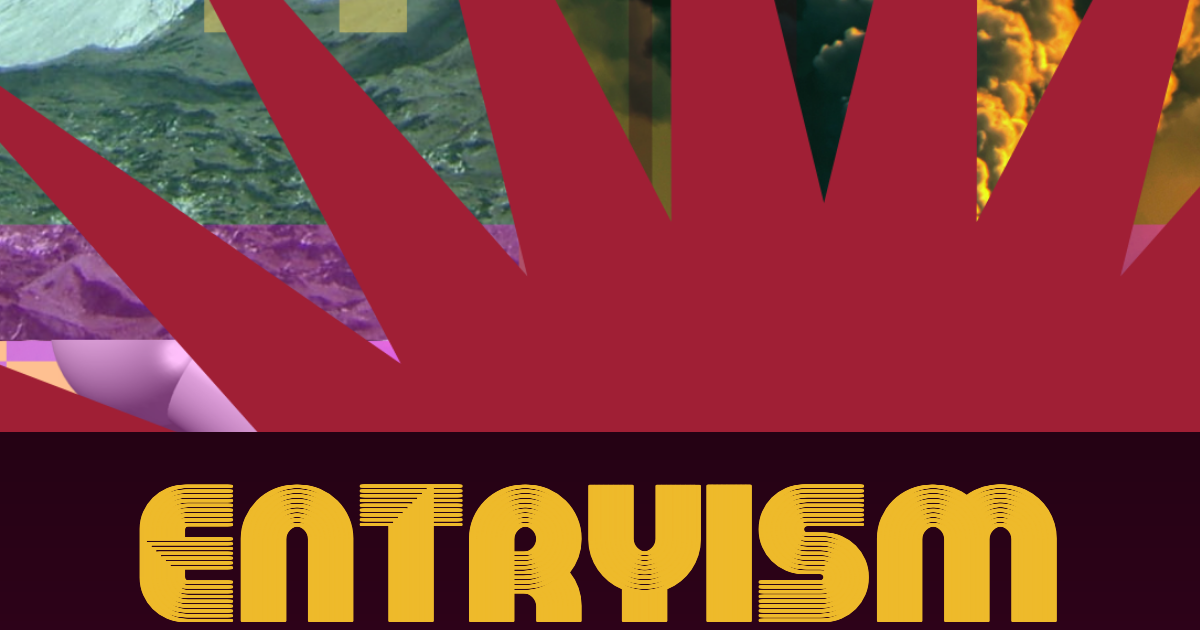
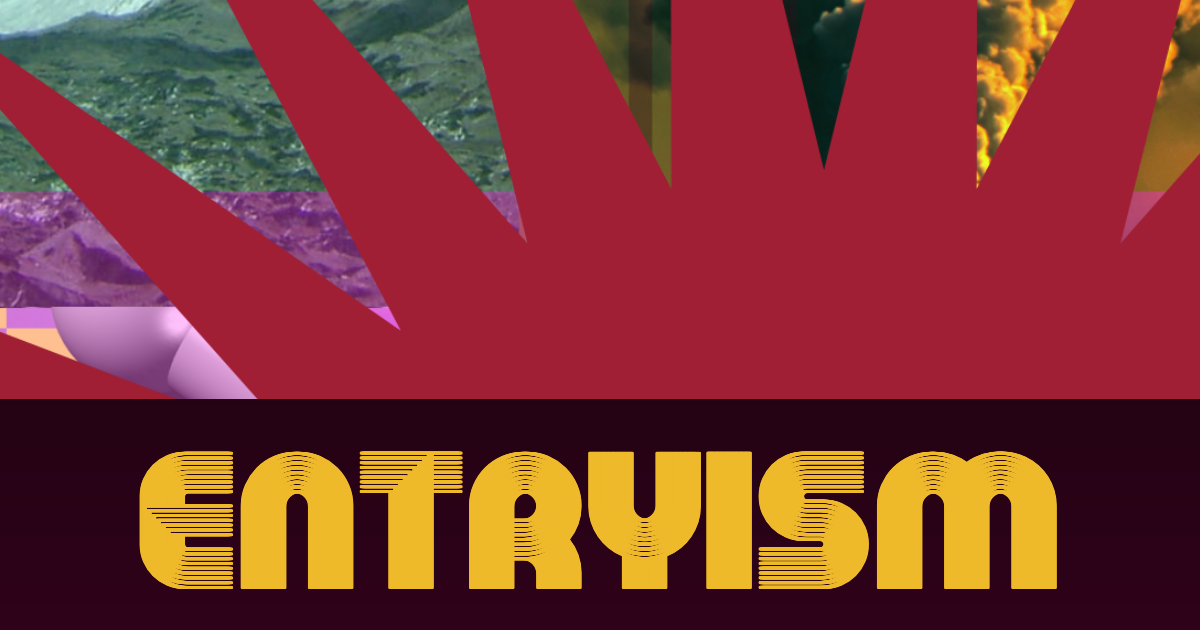
description

diff --git a/_posts/2026-07-18-entryism.html b/_posts/2026-07-18-entryism.html
@@ -6,9 +6,11 @@ published: true
 image: /images/entryism_banner.png
 css: pink
 date: 2026-07-18
-description: 
+description: AI entryism subverts anti AI critique.
 cail_excerpt: 
-excerpt: 
+excerpt: > 
+            Now that being against AI in an informed way is becoming mainstream, we need to be aware of <i>entryism</i>: the long-term strategy deployed by pro AI people or entities, like companies, to subvert such movements. In the general case it involves essentially enemy actors infiltrating groups in order to influence their ability to act in accordance with their values.
+
 featured: /cheating/
 ---
 